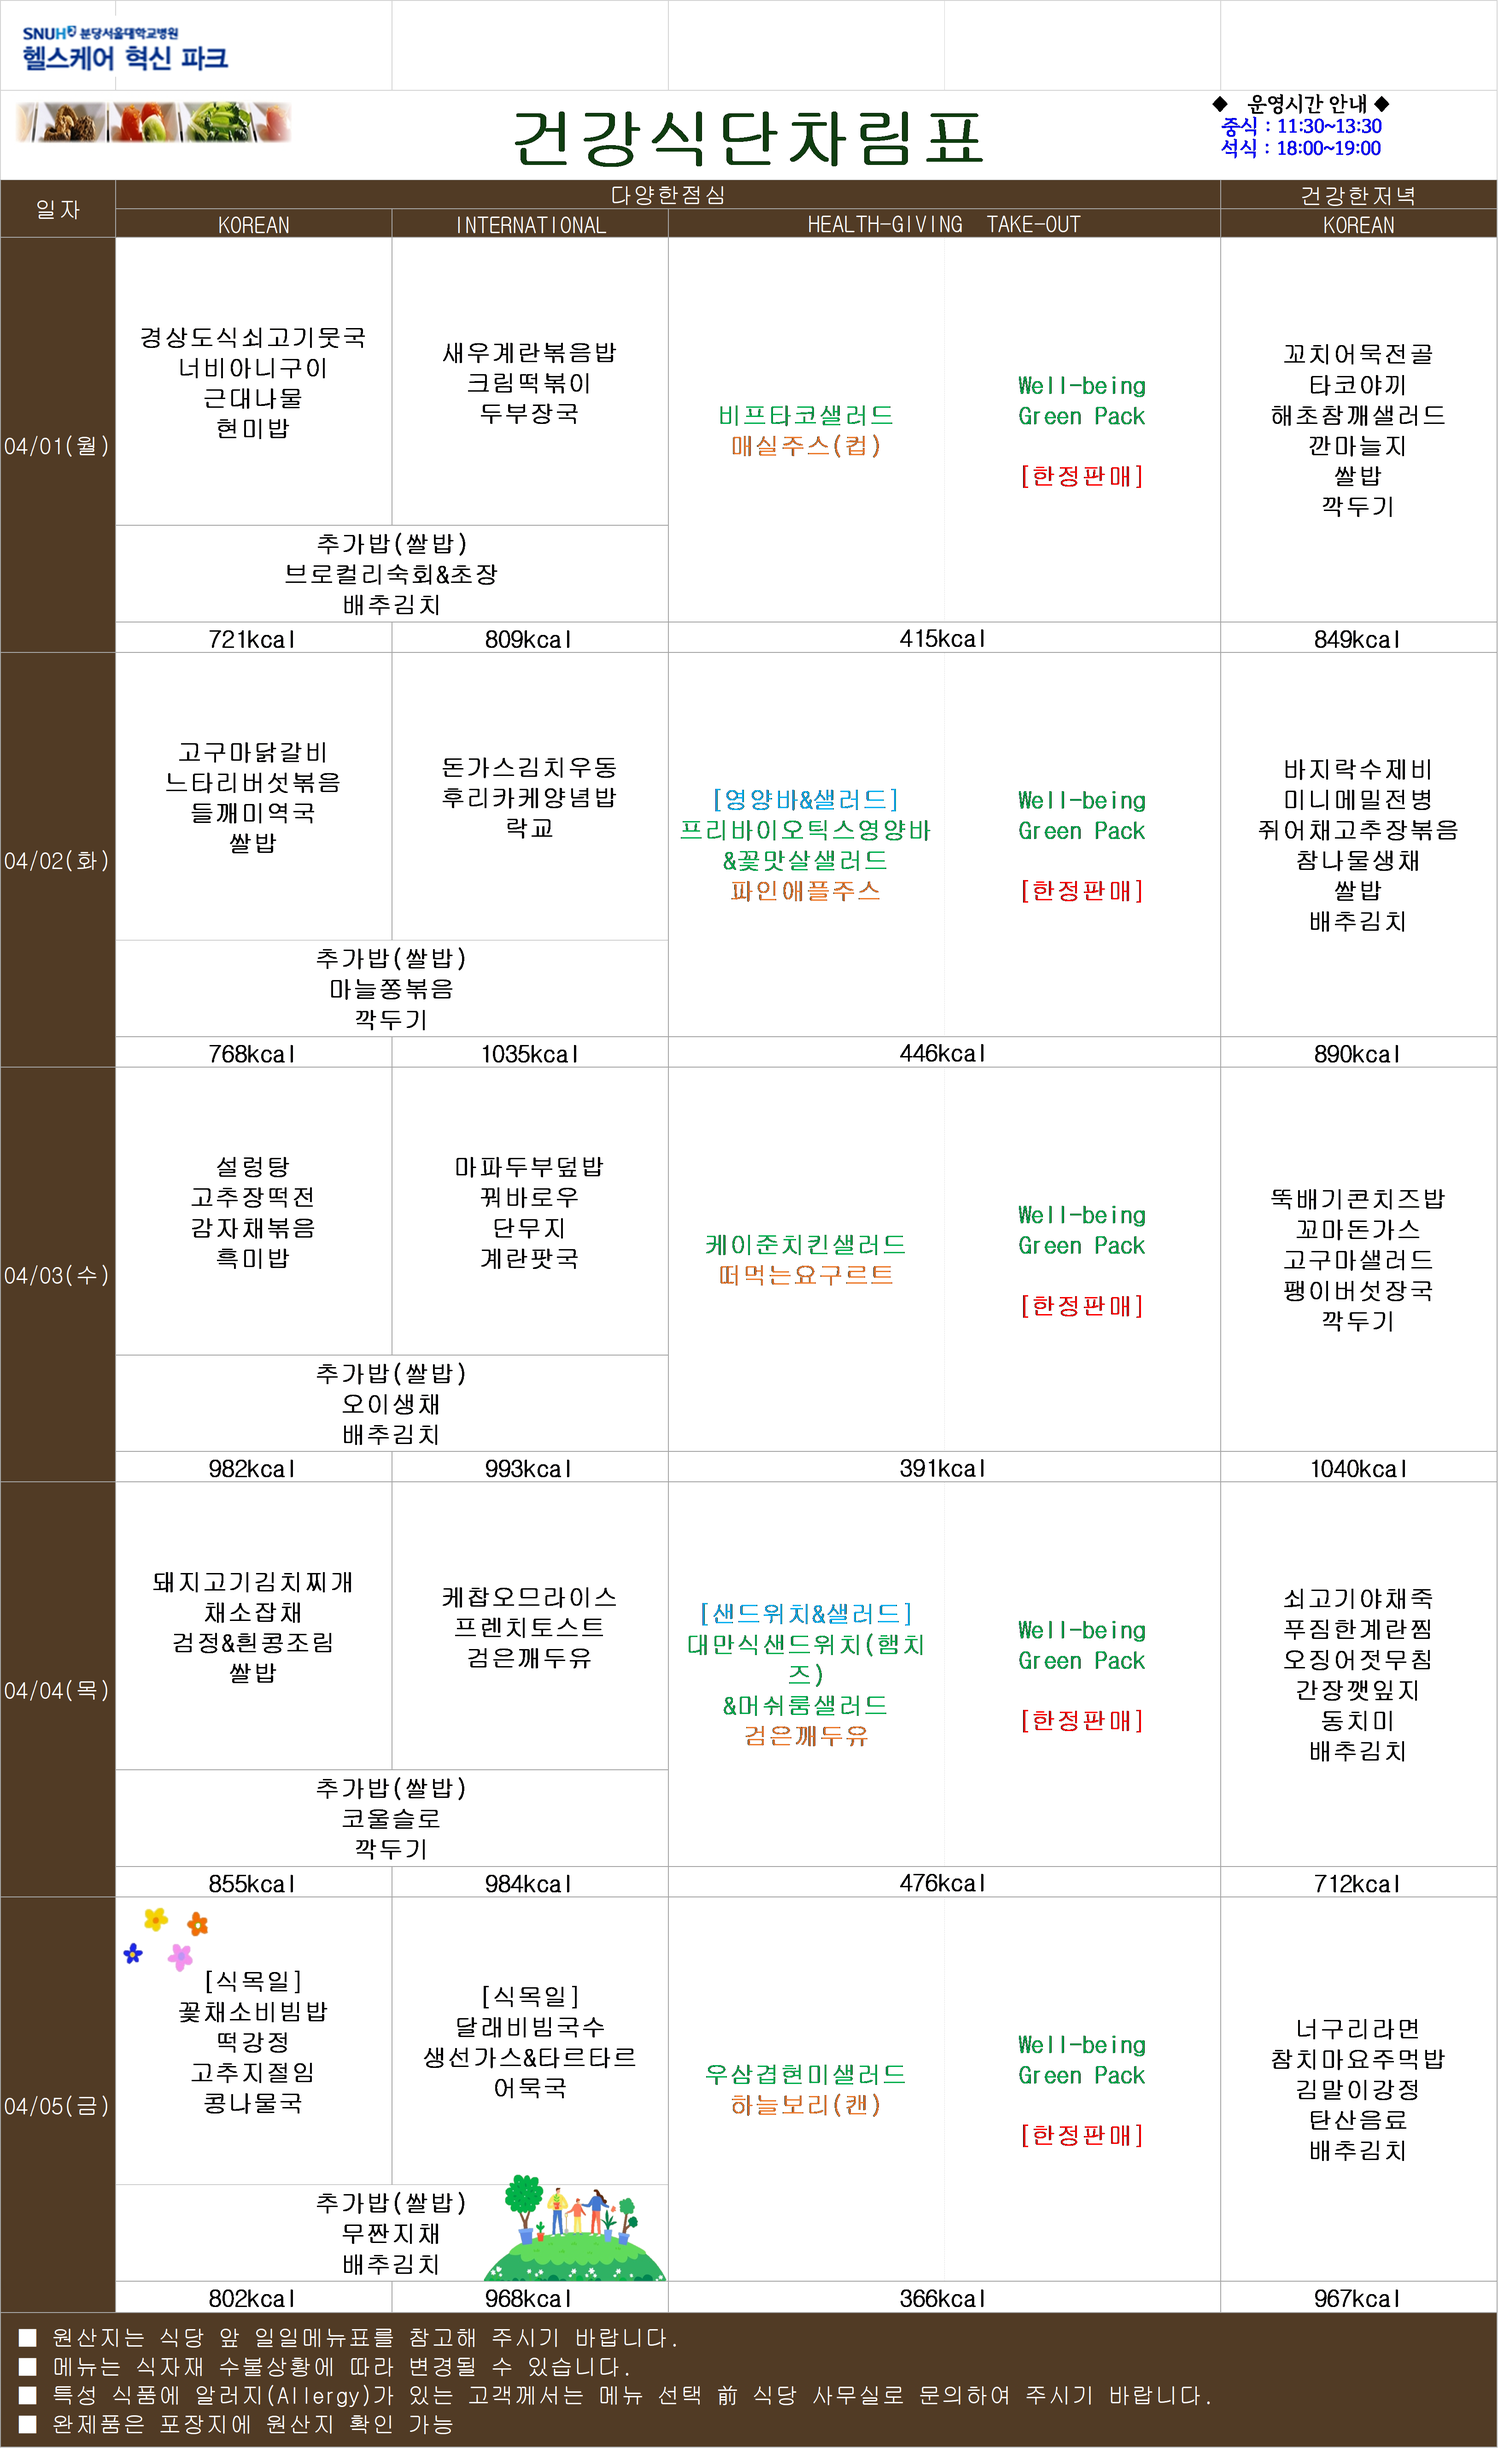
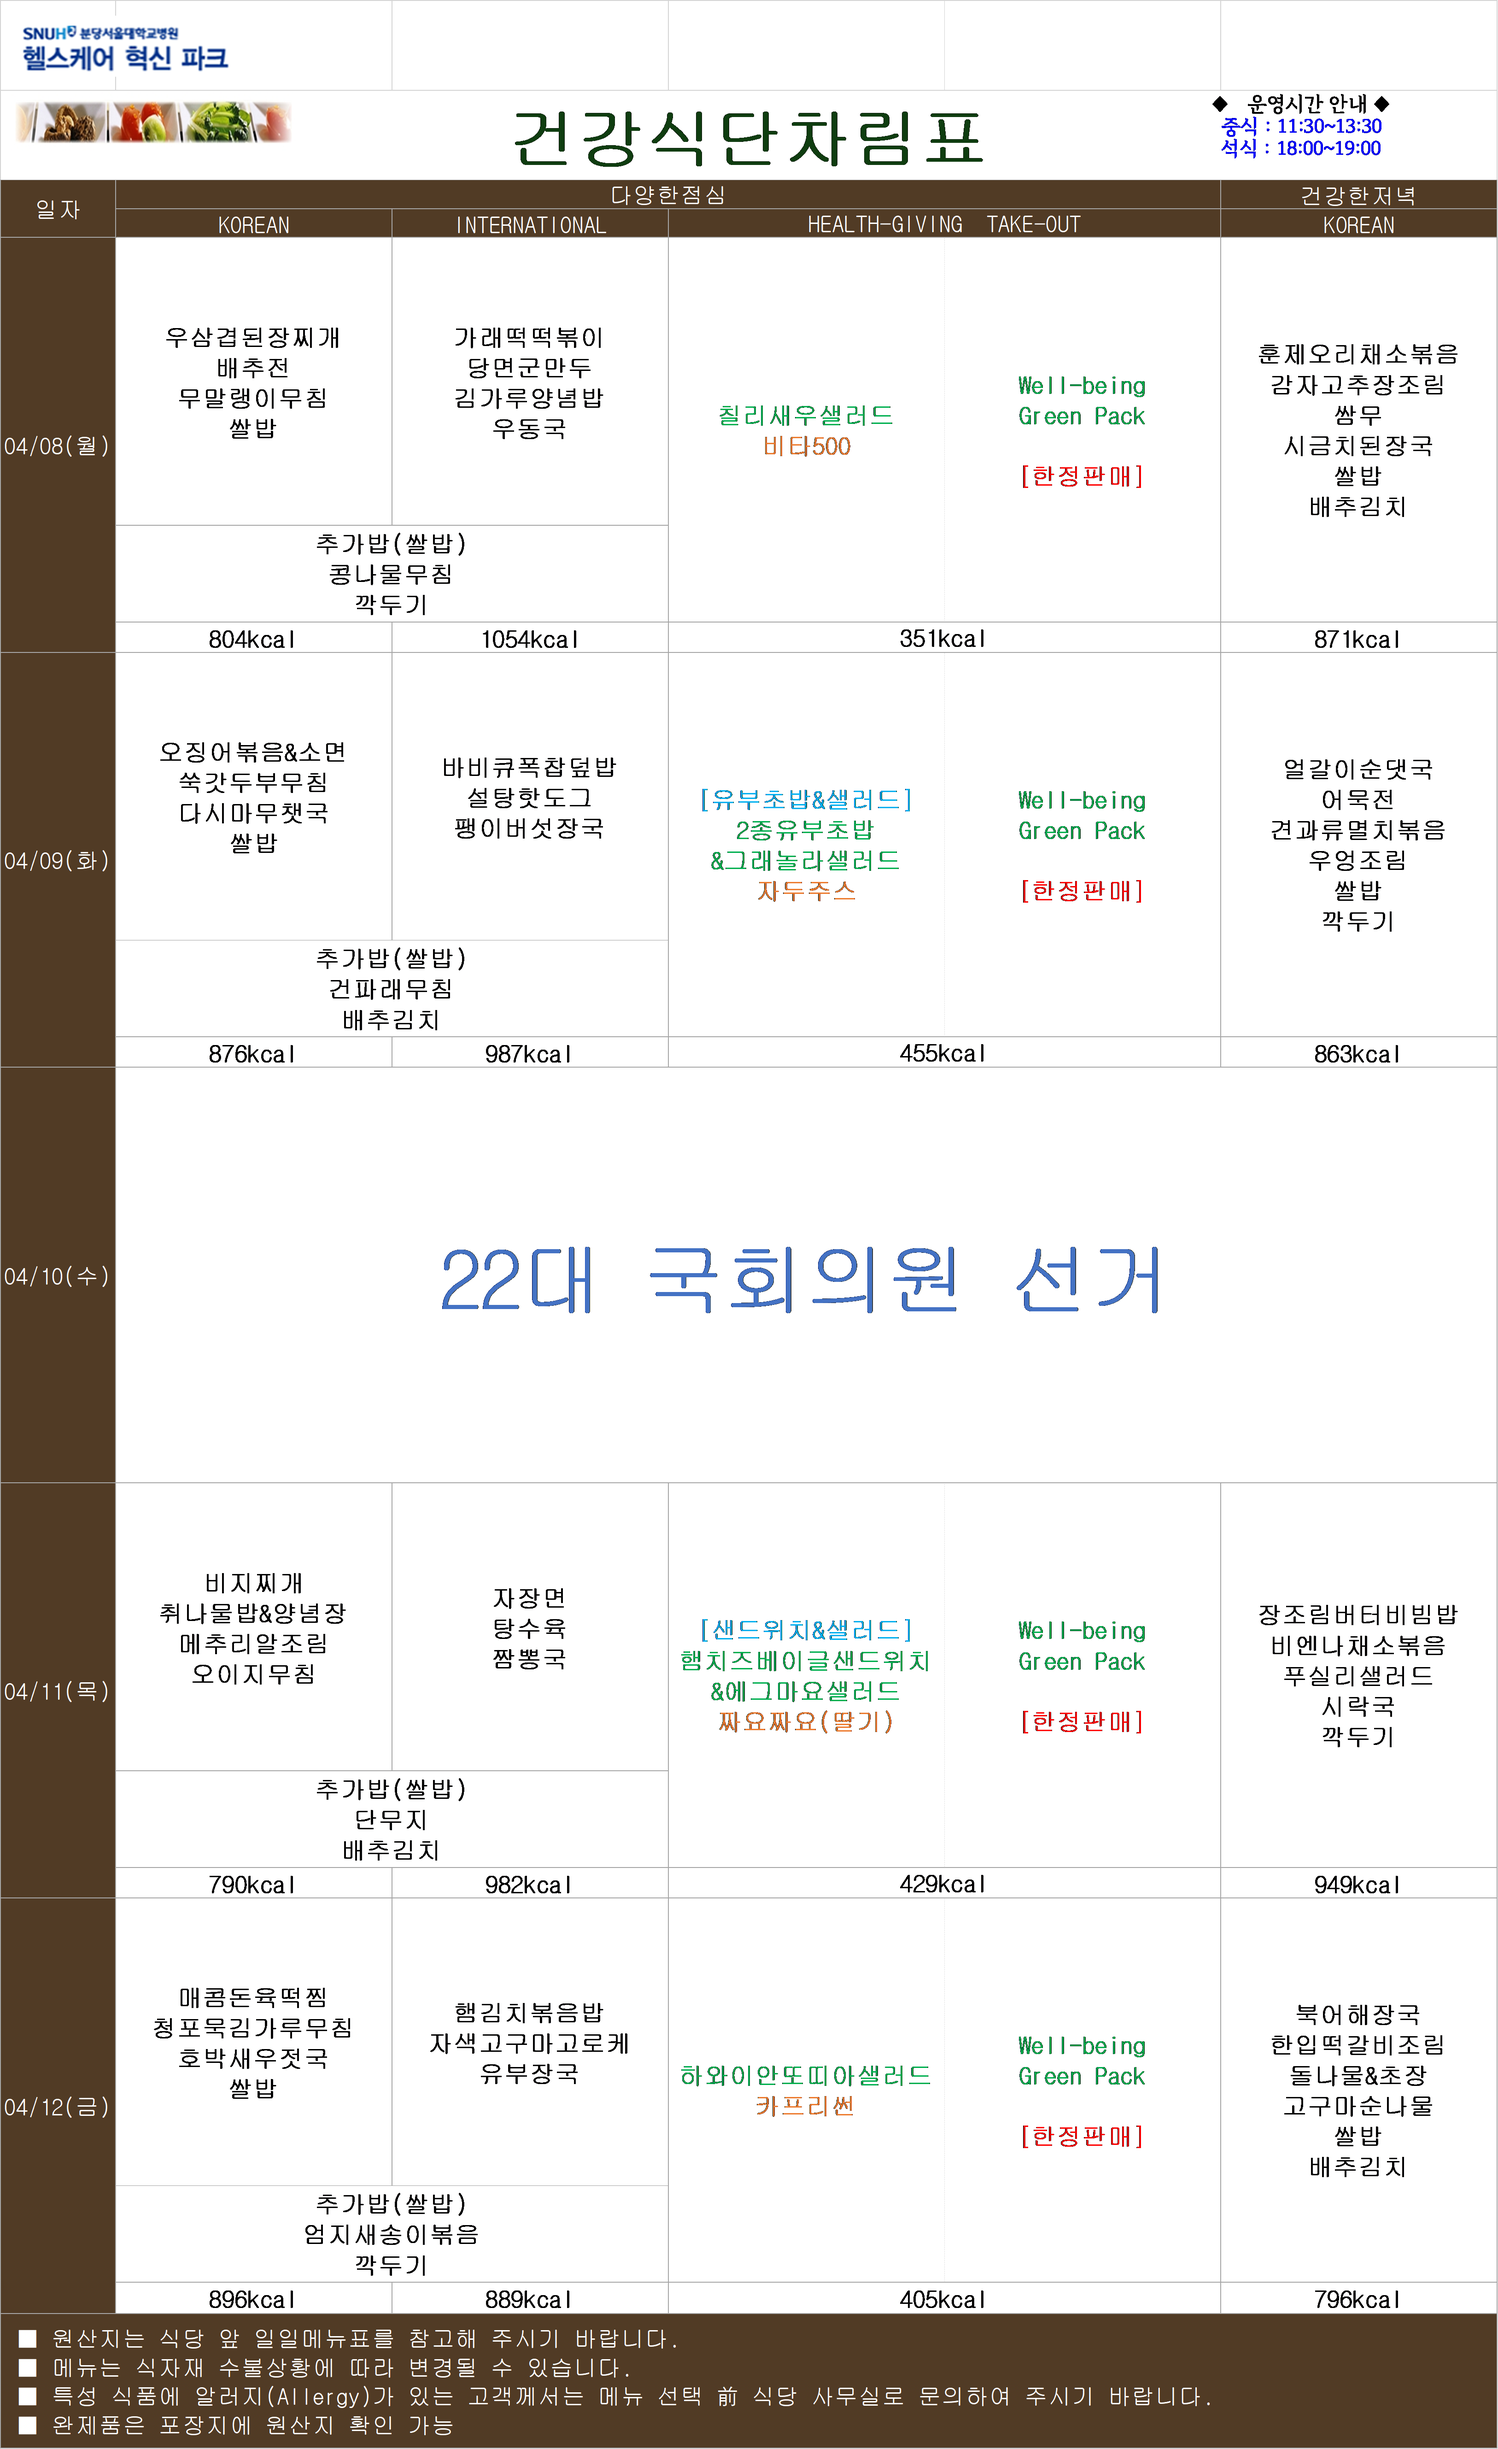
Add files via upload

diff --git a/6/index.html b/6/index.html
@@ -12,13 +12,13 @@
 <h2> 메뉴 업데이트는 주인장 여유가 되면 합니다. (이미지 확대해서 보세요) <br> </h2>
 
 <br>
-<h1> 4월 1주차 </h1>
+<h1> 4월 2주차 </h1>
 <img src="수술.png" width="100%">
 <br>
 
 
 
-<h6> Last update 2024/04/01  </h6>  
+<h6> Last update 2024/04/08  </h6>  
 <h1 >맛있게 드세요.  </h1> 
 
 </body>

diff --git a/1/index.html b/1/index.html
@@ -13,14 +13,14 @@
 
 
 <br>
-<h1> 4월 1주차  </h1>
+<h1> 4월 2주차  </h1>
 <img src="1동.png" width="100%">
 <br>
 
 
 
 
-<h6> Last update 2024/04/01  </h6>  
+<h6> Last update 2024/04/08  </h6>  
 <h1 >맛있게 드세요.  </h1> 
 
 </body>

diff --git a/2/index.html b/2/index.html
@@ -13,13 +13,13 @@
 
 
 <br>
-<h1> 4월 1주차  </h1>
+<h1> 4월 2주차  </h1>
 <img src="HIP.png" width="100%">
 <br>
 
 
 
-<h6> Last update 2024/04/01  </h6>  
+<h6> Last update 2024/04/08  </h6>  
 <h1 >맛있게 드세요.  </h1> 
 
 </body>
